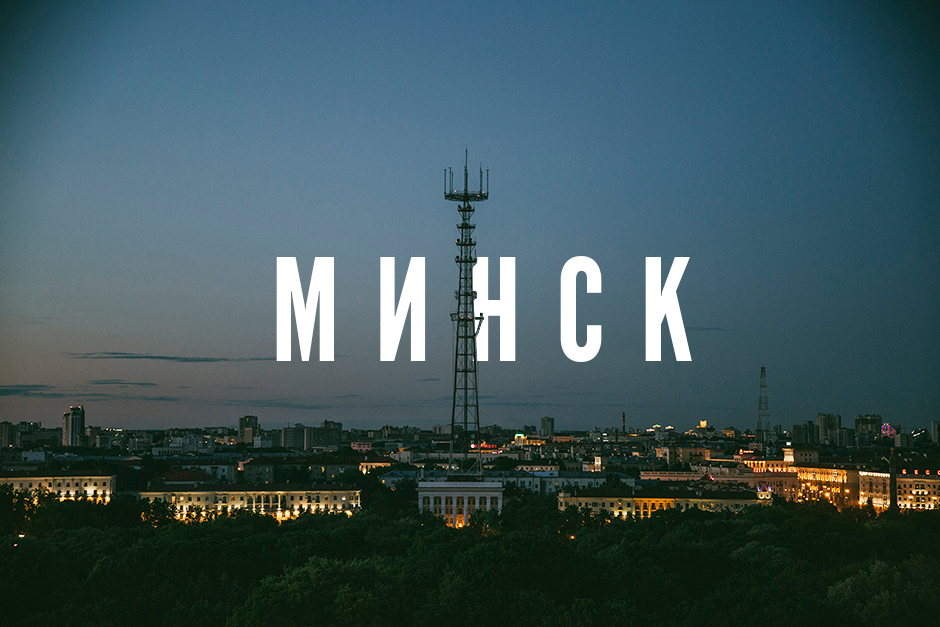
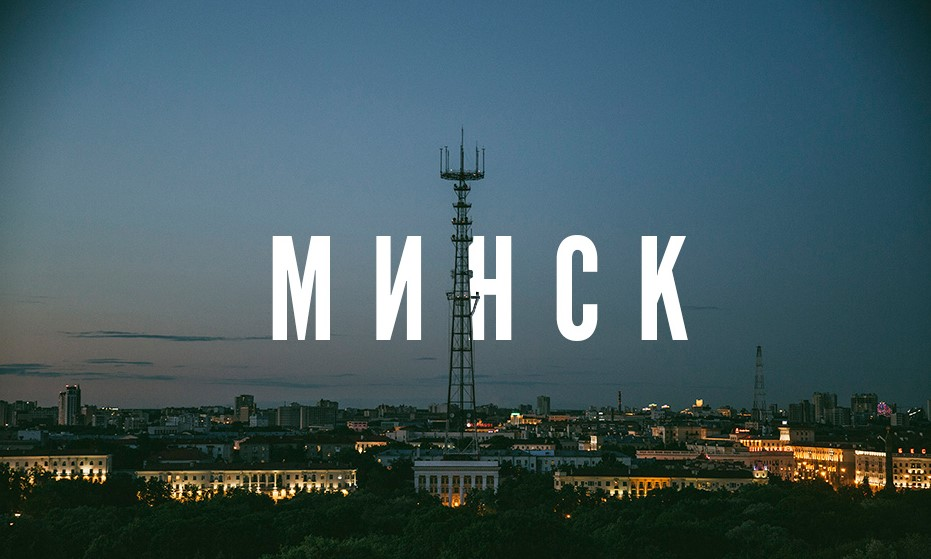
Carousel

diff --git a/src/components/carousel/slider.js b/src/components/carousel/slider.js
@@ -4,13 +4,13 @@ import { MDBCarousel, MDBCarouselCaption, MDBCarouselInner, MDBCarouselItem, MDB
 
 const CarouselPage = () => {
   return (
-    <MDBContainer>
+    <MDBContainer className="h-25 w-75">
       <h4 className="mt-5 mb-2">Best deals</h4>
       <MDBCarousel activeItem={1} length={4} showControls={true} showIndicators={true} className="z-depth-1">
         <MDBCarouselInner>
           <MDBCarouselItem itemId="1">
             <MDBView>
-              <img className="d-block w-100" src={require('./Images/minsk.jpg')} alt="First slide" />
+              <img className="d-block w-100" src={require('./Images/minsk.jpg')} alt="First slide"/>
               <MDBMask overlay="black-light" />
             </MDBView>
             <MDBCarouselCaption>

diff --git a/src/containers/Home.js b/src/containers/Home.js
@@ -4,7 +4,7 @@ import CarouselPage from '../components/carousel/slider';
 export default class Home extends Component {
     render() {
         return (
-                <CarouselPage />
+                <CarouselPage  />
         );
     }
 }
